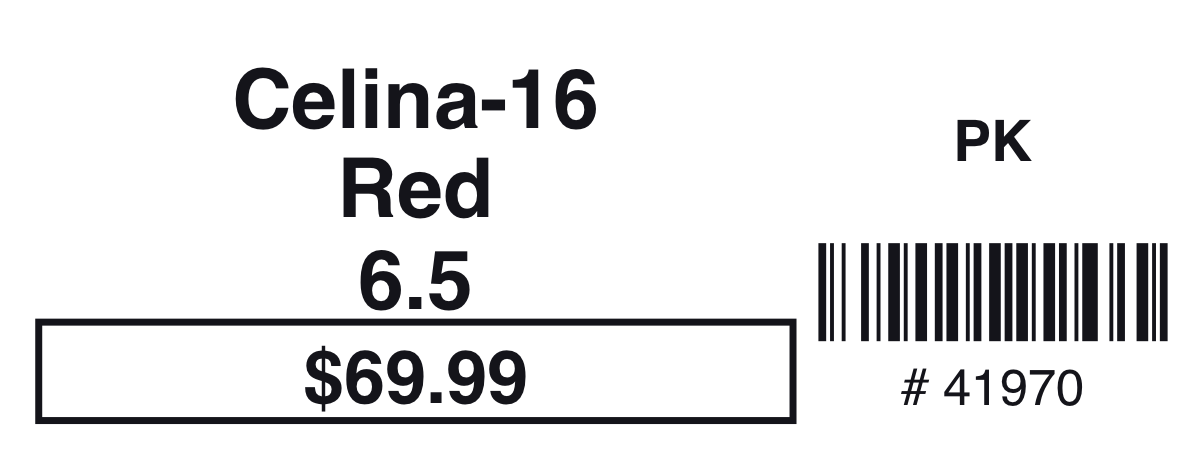
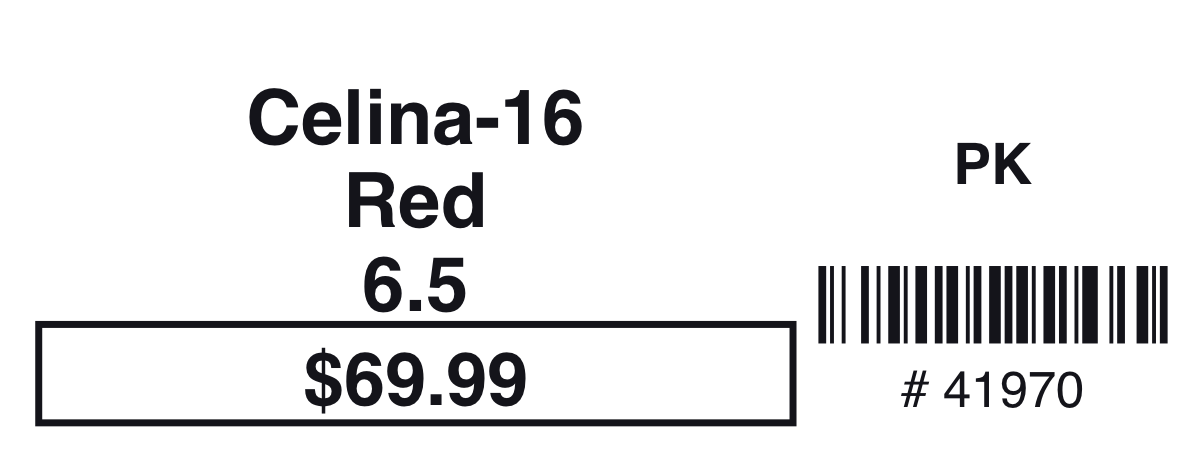
Drop sticker artwork from the top and keep shoe size/color off original price.
Prints were still clipping the top of Avery 5160/6240 labels; original price is a bit larger, dress color lists stay small enough for a third line, and shoe-tag size/color sits above original price so the two no longer overlap.

diff --git a/src/labels/draw-label.ts b/src/labels/draw-label.ts
@@ -180,7 +180,7 @@ function saleLabel(payload: LabelPayload): string {
 const PRICE_BOX_H = 18
 /** Slightly shorter sale box on shoe stock so name / color / size can grow. */
 const PRICE_BOX_H_STOCK = 15.5
-const ORIG_PRICE_SIZE = 7.5
+const ORIG_PRICE_SIZE = 8.5
 /** Right-column space above the barcode. Do not change — barcode height depends on this. */
 const BARCODE_TOP_RESERVE_H = 28
 /** Store code (PLM / PK) — shared size so dress matches shoes and jewelry. */
@@ -541,30 +541,14 @@ function drawStockLabel(
   })
 
   const innerY = y + pad
-  const innerH = h - pad * 2
-  const origH = originalPriceBlockHeight() + ORIG_PRICE_GAP
   const descText = payload.description.trim()
   const descWidth = Math.max(8, leftW)
-  let descSize = 10.5
-  let priceBoxH = PRICE_BOX_H
-  let descLines = descText
-    ? descriptionLines(descText, fonts.regular, descSize, descWidth, 4)
+  const descSize = 7.5
+  const descLineH = descSize + 1.3
+  const priceBoxH = PRICE_BOX_H
+  const descLines = descText
+    ? descriptionLines(descText, fonts.regular, descSize, descWidth, 3)
     : []
-  const stackH = () =>
-    descLines.length * (descSize + 1.5) + (descLines.length ? 2 : 0) + origH + priceBoxH
-  while (innerH - stackH() > 5) {
-    let grew = false
-    if (descText && descSize < 13) {
-      descSize += 0.5
-      descLines = descriptionLines(descText, fonts.regular, descSize, descWidth, 4)
-      grew = true
-    }
-    if (innerH - stackH() > 5 && priceBoxH < 20) {
-      priceBoxH += 0.5
-      grew = true
-    }
-    if (!grew) break
-  }
 
   const priceBoxY = innerY
   const priceBoxW = leftW - pad
@@ -580,10 +564,9 @@ function drawStockLabel(
   )
 
   if (descLines.length) {
-    const descLineH = descSize + 1.5
     const descCeiling = y + h - pad
     const descFloor = origTop + 1
-    const maxFit = Math.max(1, Math.floor((descCeiling - descFloor) / descLineH))
+    const maxFit = Math.max(1, Math.min(3, Math.floor((descCeiling - descFloor) / descLineH)))
     const lines = descLines.slice(0, maxFit)
     let descY = descCeiling - descSize
     for (const line of lines) {
@@ -692,12 +675,13 @@ function drawShoesTag(
   const descText = shoeDescription(payload, nameText)
   const sizeColorText = [sizeText, colorText].filter(Boolean).join(' · ')
 
-  const sizeColorSize = 13
-  const nameSize = maxSizeForWidth(fonts.bold, nameText, priceBoxW, 16, 9.5)
+  const sizeColorSize = 12
+  const nameSize = maxSizeForWidth(fonts.bold, nameText, priceBoxW, 15, 9.5)
   const nameLineH = nameSize + 1.6
   const nameCeiling = y + h - pad
-  const nameFloorMin = origTop + sizeColorSize + 2.5
-  const nameH = Math.max(nameSize, Math.min(nameLineH * 2, nameCeiling - nameFloorMin))
+  const sizeColorBaseline = origTop + 3.5
+  const nameFloorMin = sizeColorBaseline + sizeColorSize + 2
+  const nameH = Math.max(8, Math.min(nameLineH * 2, nameCeiling - nameFloorMin))
   const nameFloor = nameCeiling - nameH
   const nameMaxLines =
     fonts.bold.widthOfTextAtSize(nameText.trim(), nameSize) <= priceBoxW
@@ -726,7 +710,7 @@ function drawShoesTag(
       fonts.bold,
       sizeColorSize,
       priceBoxX,
-      nameFloor - 2 - sizeColorSize,
+      sizeColorBaseline,
       priceBoxW,
       'center',
     )

diff --git a/src/labels/templates.ts b/src/labels/templates.ts
@@ -20,9 +20,9 @@ import { LABEL_STYLE_LAYOUTS } from './style-layouts'
  * | Vertical pitch    | 1" (labels touch)  |
  * | Horizontal pitch  | 2.75" (1/8" gap)   |
  *
- * Physical 5160 / 6240 prints sat high and tight to the perforations.
- * `contentInset*` keeps artwork inside each sticker; the grid stays on spec
- * so later rows do not walk off the sheet.
+ * Physical 5160 / 6240 prints sat high and clipped the top of each sticker.
+ * Extra `contentInsetTopIn` drops artwork; the grid stays on spec so later
+ * rows do not walk off the sheet.
  */
 export type AverySheetSpec = {
   id: string
@@ -61,8 +61,8 @@ export const AVERY_5160: AverySheetSpec = {
   marginLeftIn: 0.1875,
   horizontalPitchIn: 2.75,
   verticalPitchIn: 1,
-  contentInsetTopIn: 0.06,
-  contentInsetBottomIn: 0.045,
+  contentInsetTopIn: 0.11,
+  contentInsetBottomIn: 0.04,
   contentInsetXIn: 0.05,
 }
 
